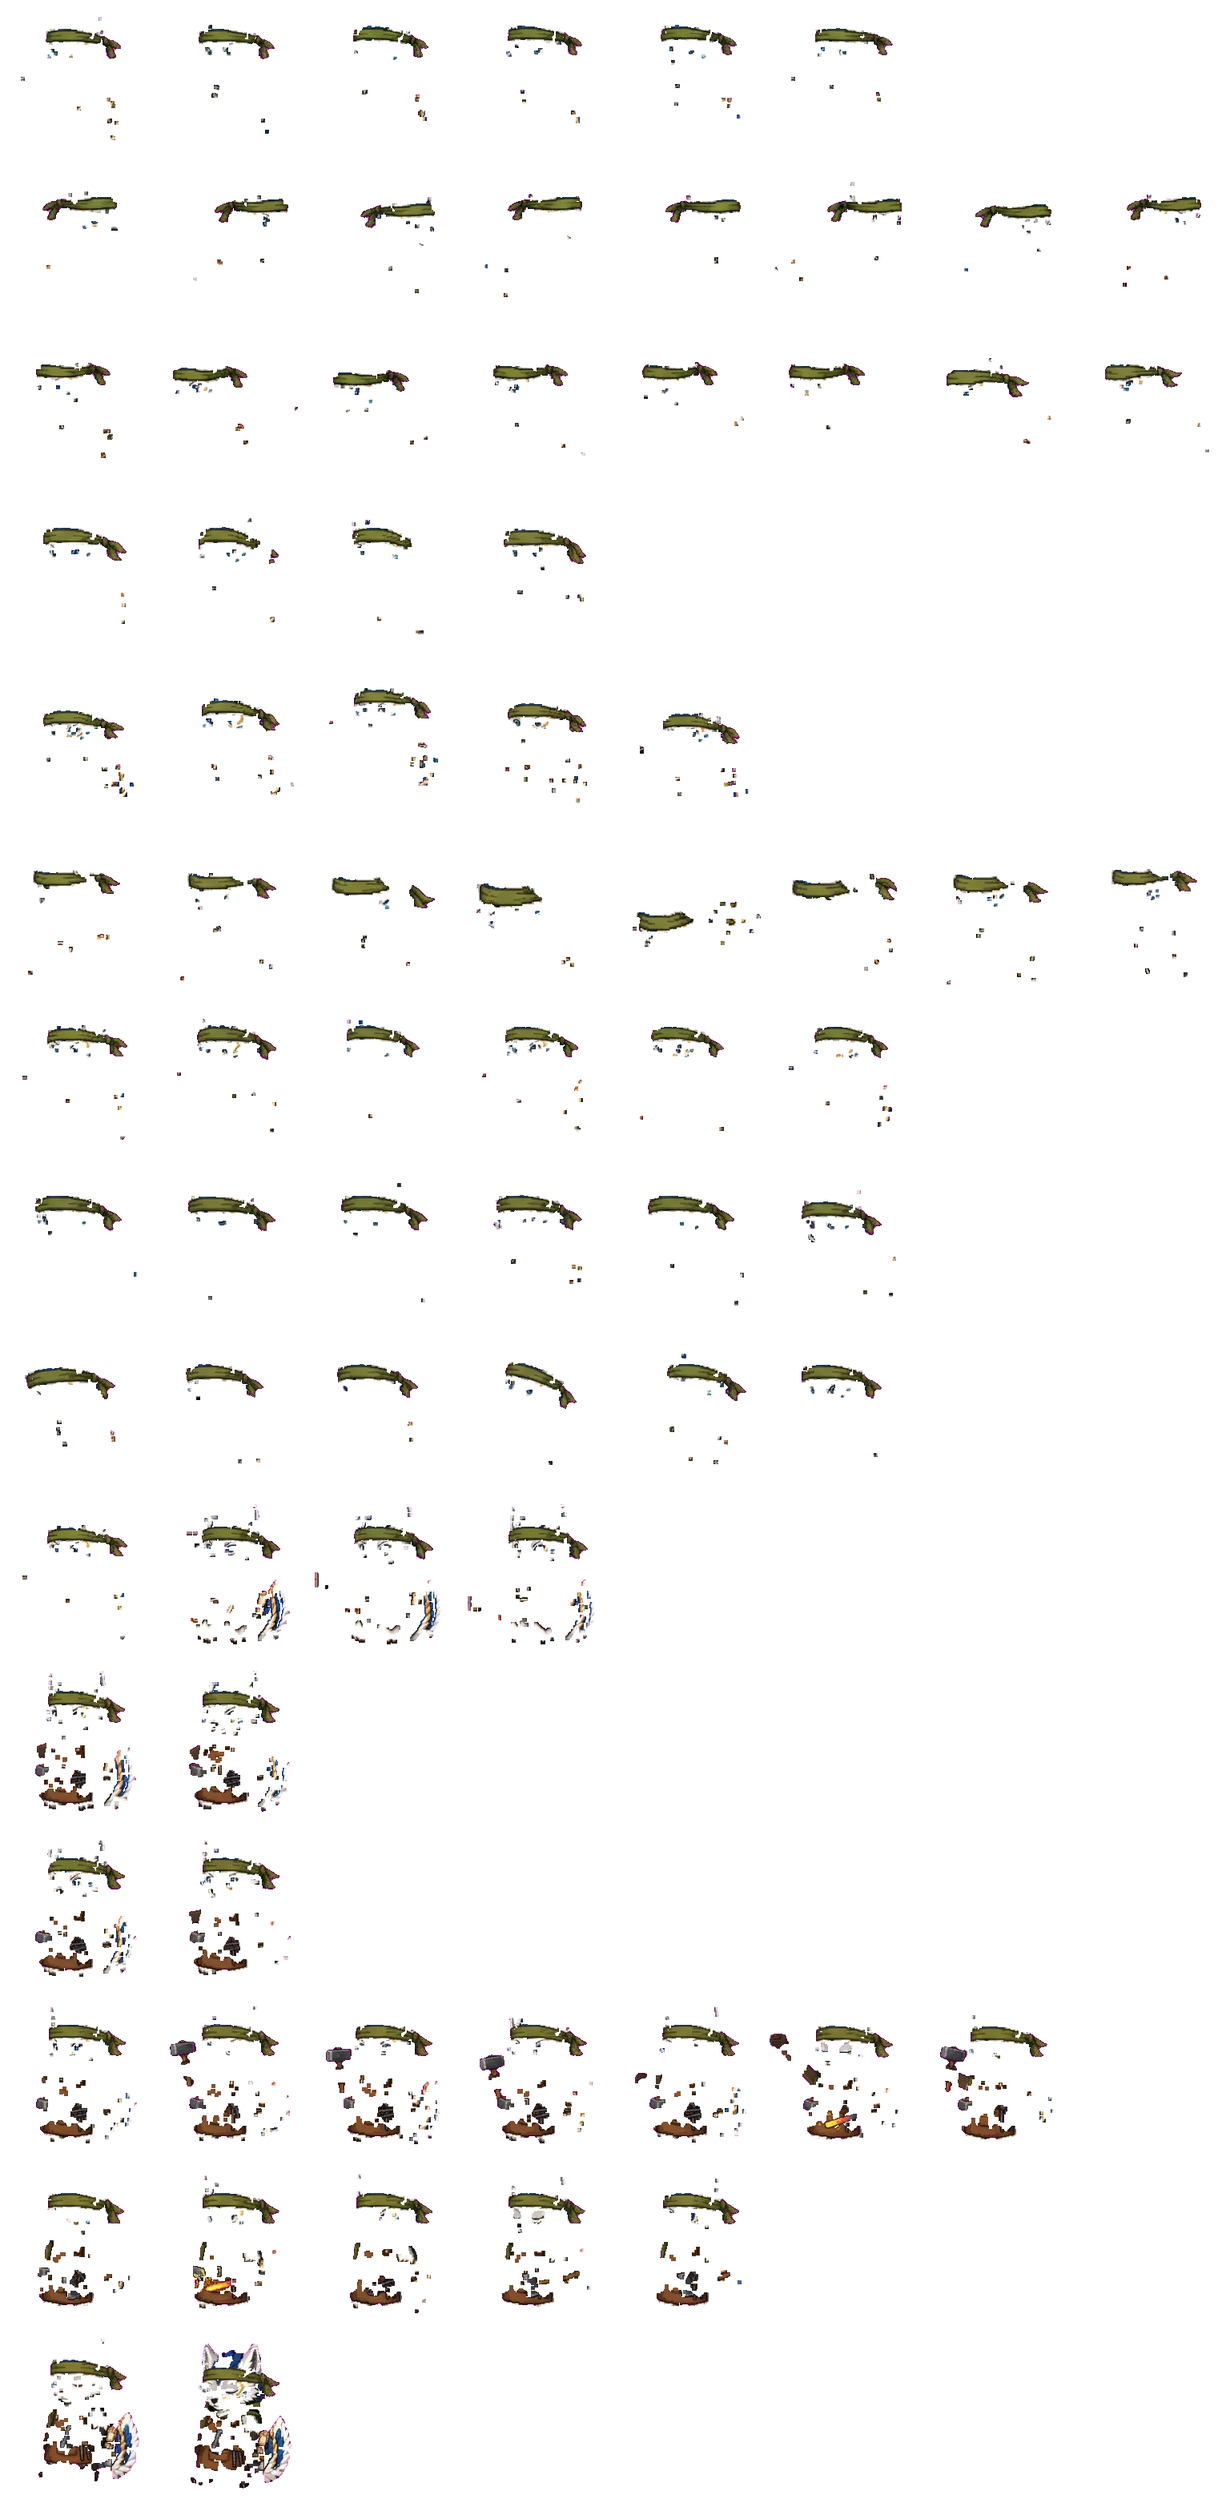
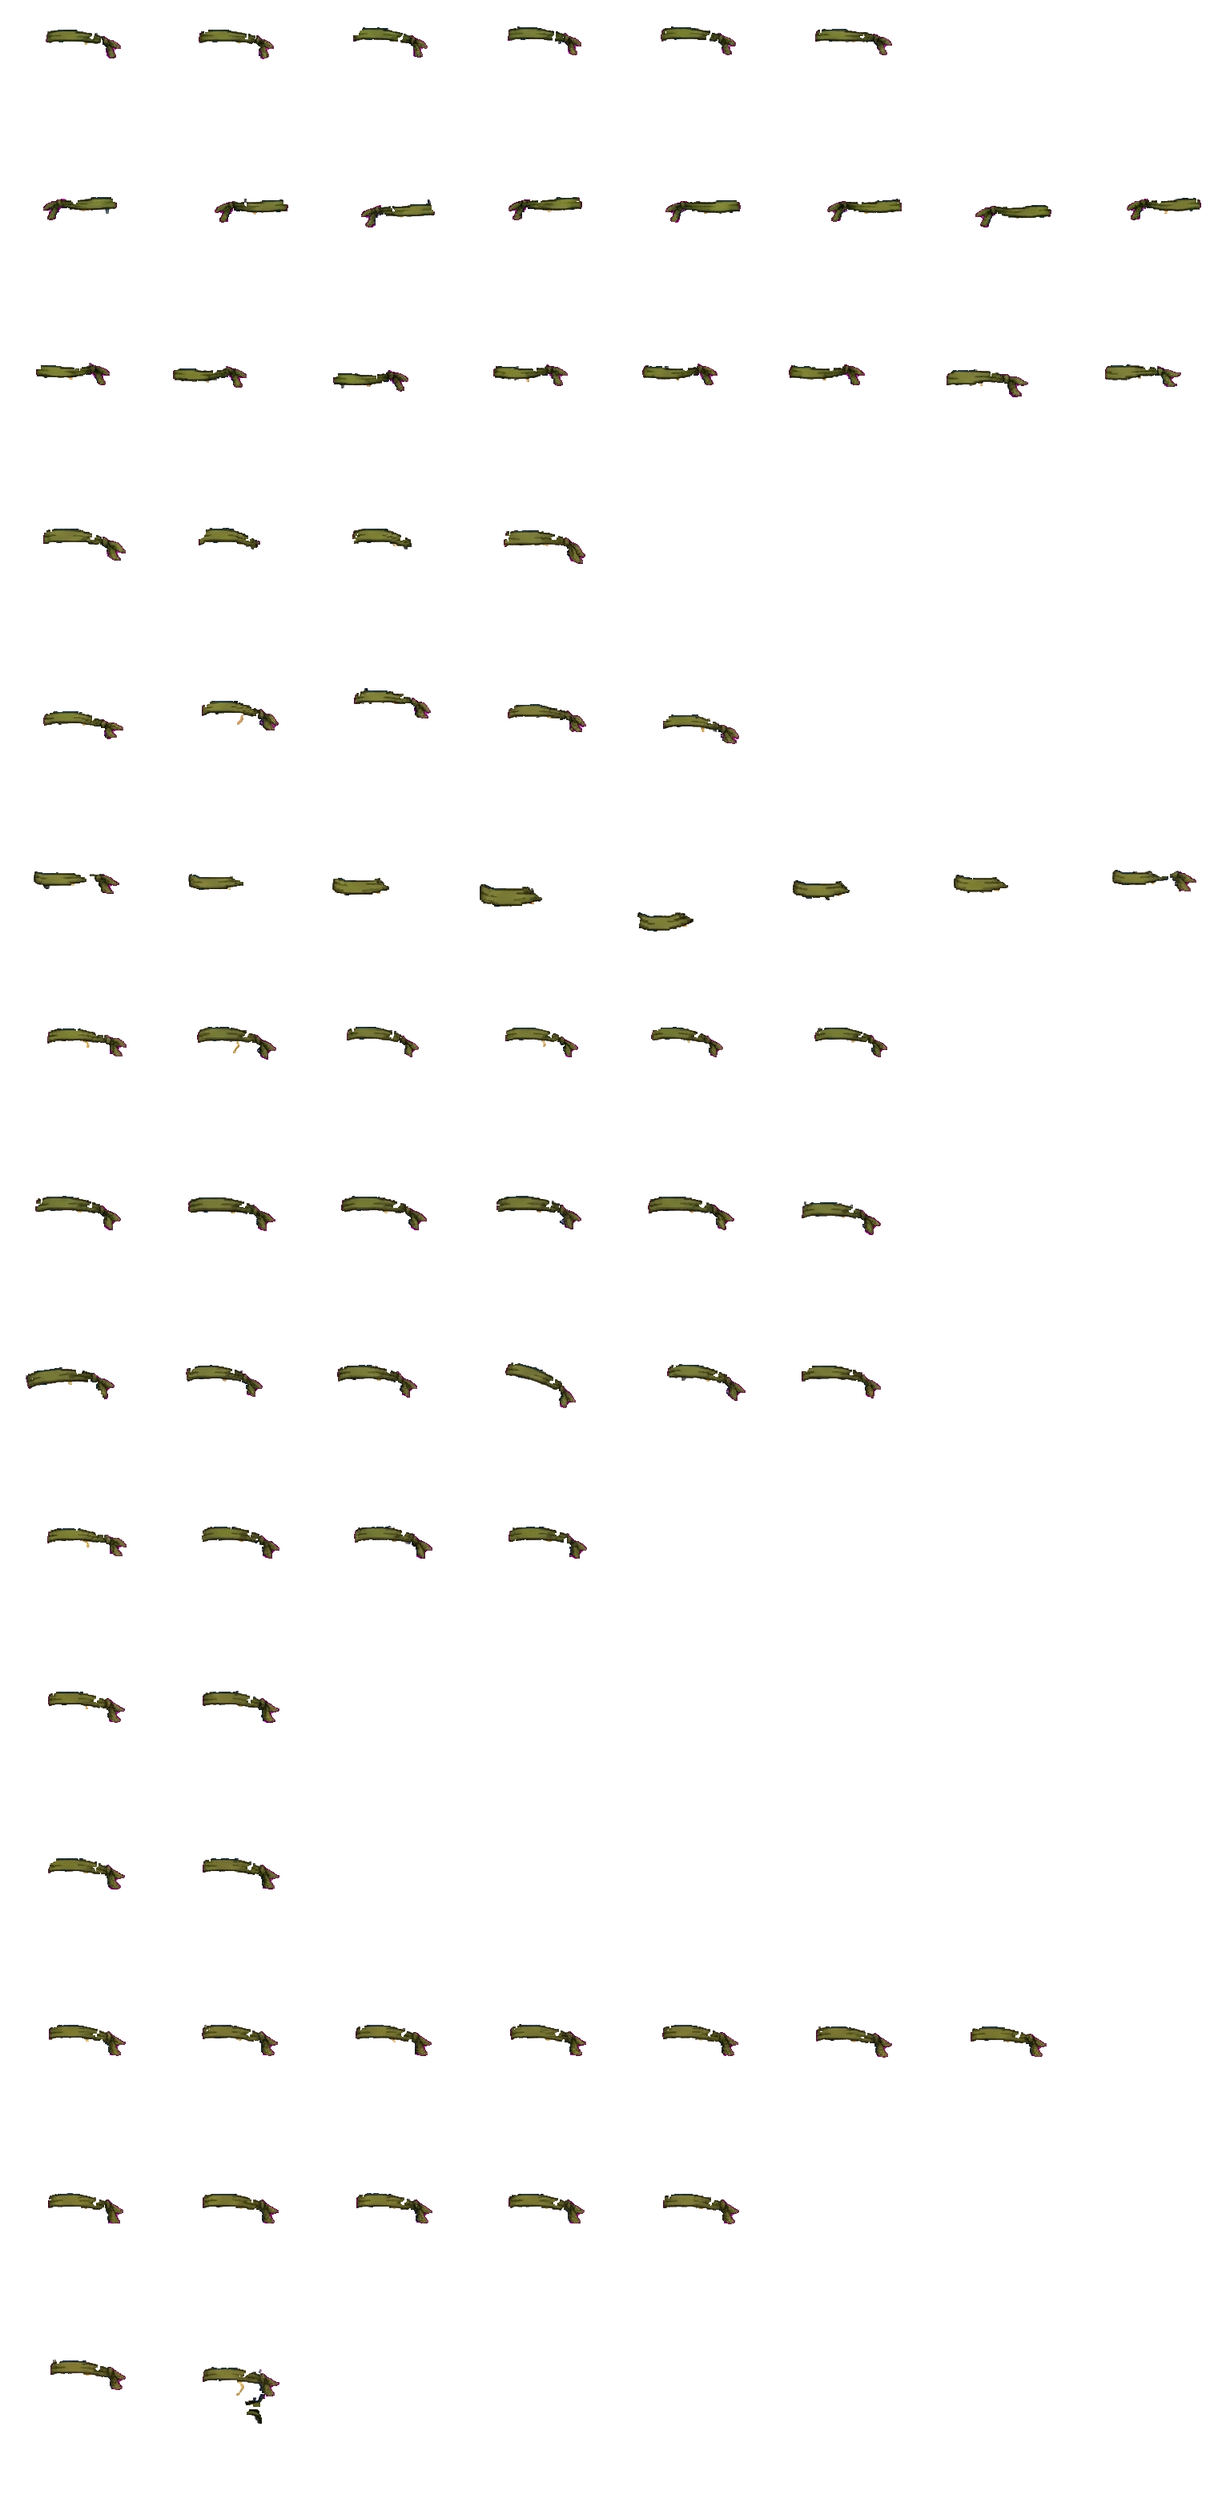
Accessoires du pet : le calque réduit à l'accessoire, plus de pet en double
- quand l'IA redessine une pose au lieu de l'habiller, tout ce qui diffère passait dans le
  calque : au sommeil, une seconde tête et une seconde queue ; au balai, un second manche ; aux
  gestes de forge, un tablier à outils, des marteaux et une lame dans le calque du bandeau
- l'import épure chaque calque : ni fourrure (blanc, gris clair, bleu), ni miettes ; la seule
  pièce de la tête au-dessus du menton (lunettes, bandeau), le seul cuir brun du corps (tablier) ;
  il signale les poses dont plus de la moitié est ôtée
- chatgpt.py --epurer repasse les calques déjà faits, et les trois calques en sont repassés :
  elle ne fait qu'ôter, et la repasser ne change plus rien
- le film du banc (planche.rs) prend ACCESSOIRE=lunettes|tablier|bandeau

diff --git a/tools/pet/chatgpt.py b/tools/pet/chatgpt.py
@@ -10,14 +10,17 @@ python tools/pet/chatgpt.py --tenue             → tools/pet/chatgpt/tenue-1.pn
 python tools/pet/chatgpt.py --tenue <accessoire> <n> <son image.png>
                                                 → rendu/pet/<accessoire>.webp complété des poses
                                                   de tenue-<n>, et apercu-<accessoire>-<n>.png
+python tools/pet/chatgpt.py --epurer            → les calques déjà faits repassés à l'épuration, et
+                                                  tools/pet/chatgpt/epure-<accessoire>.png
 
 Les gestes : ses poses sont prises dans l'ordre du guide (de gauche à droite, rangée par rangée),
 chacune à la taille et à la place de la mienne : même hauteur, les pattes au même endroit. Ce
 qu'il dessine autour (le fond, un damier « transparent ») est retiré d'après les couleurs du bord.
 
 Les accessoires : son image est ramenée à la taille de la planche envoyée, chaque pose recalée sur
-la mienne, et n'en est gardé que ce qui a changé (l'accessoire) : un calque que l'appli pose sur
-le pet. Le dessin d'origine reste intact.
+la mienne, et n'en est gardé que ce qui a changé : un calque que l'appli pose sur le pet. Le dessin
+d'origine reste intact. S'il a redessiné une pose (la tête ailleurs, une gourde ajoutée), ce qui a
+changé n'est pas que l'accessoire : le calque est épuré (epurer) jusqu'à ne garder que lui.
 """
 import os
 import sys
@@ -125,6 +128,91 @@ def calque(mien, sien):
 SEUIL = 90
 
 
+def taches(masque):
+    """Les taches d'un masque (4-voisins) : une liste de masques."""
+    vu = np.zeros_like(masque)
+    h, w = masque.shape
+    out = []
+    for y0, x0 in zip(*np.nonzero(masque)):
+        if vu[y0, x0]:
+            continue
+        t, pile = np.zeros_like(masque), [(y0, x0)]
+        vu[y0, x0] = True
+        while pile:
+            y, x = pile.pop()
+            t[y, x] = True
+            for j, i in ((y - 1, x), (y + 1, x), (y, x - 1), (y, x + 1)):
+                if 0 <= j < h and 0 <= i < w and masque[j, i] and not vu[j, i]:
+                    vu[j, i] = True
+                    pile.append((j, i))
+        out.append(t)
+    return out
+
+
+def fourrure(px):
+    """Les couleurs du pet qu'aucun accessoire ne porte : le blanc et le gris clair de la
+    fourrure, le bleu de la crête et de la queue."""
+    r, g, b = (px[..., k] / 255 for k in range(3))
+    mx, mn = np.maximum(np.maximum(r, g), b), np.minimum(np.minimum(r, g), b)
+    sat = (mx - mn) / np.maximum(mx, 1e-6)
+    return ((mx > 0.62) & (sat < 0.22)) | ((b > r + 0.15) & (b > g + 0.05) & (sat > 0.35))
+
+
+def saturation(px):
+    rgb = px[..., :3].astype(float)
+    return ((rgb.max(-1) - rgb.min(-1)) / np.maximum(rgb.max(-1), 1)).mean()
+
+
+# sa tête, jusqu'au menton : ces pixels sous le haut du personnage, couché comme debout. Sur toutes
+# les poses, les lunettes et le bandeau ont leur milieu à 73 pixels au plus, et le cuir du tablier
+# (sa bavette comprise) à 84 au moins
+TETE = 80
+
+
+def cuir(rgb):
+    """Le cuir brun moyen du tablier (cf. CHATGPT.md), à sa teinte : sur toutes les poses, le vert
+    à 0,6 du rouge et le bleu à 0,3 ; le bois sombre, le crème, le doré s'en écartent."""
+    r, g, b = (float(v) for v in rgb)
+    return 80 <= r <= 190 and 0.5 <= g / r <= 0.68 and b / r < 0.42
+
+
+def epurer(acc, mien, c):
+    """Le calque `c` réduit à l'accessoire. Quand l'IA redessine une pose au lieu de l'habiller
+    (une tête redressée, la queue ailleurs, une gourde ajoutée), tout ce qui diffère passe dans le
+    calque, et le pet se montre en double. On n'en garde que l'accessoire : ni fourrure, ni
+    miettes, et la seule pièce de la tête (lunettes, bandeau) ou celles du corps (tablier)."""
+    c = np.asarray(c).copy()
+    plein = (c[..., 3] > 0) & ~fourrure(c)
+    m = Image.fromarray((plein * 255).astype(np.uint8)).filter(ImageFilter.MinFilter(3)).filter(ImageFilter.MaxFilter(3))
+    plein &= np.asarray(m) > 0
+    for t in taches(plein):
+        if t.sum() < 40:
+            plein &= ~t
+    ys = np.nonzero(np.asarray(mien)[..., 3] > 128)[0]
+    if not len(ys):
+        return Image.fromarray(np.zeros_like(c), 'RGBA')
+    tete = ys.min() + TETE
+    rangee = np.arange(c.shape[0])[:, None].repeat(c.shape[1], 1)
+    # les morceaux voisins (une lanière coupée par la fourrure) font un même groupe
+    proche = np.asarray(Image.fromarray((plein * 255).astype(np.uint8)).filter(ImageFilter.MaxFilter(5))) > 0
+    groupes = [g & plein for g in taches(proche) if (g & plein).any()]
+    garde = np.zeros_like(plein)
+    if acc == 'tablier':
+        for g in groupes:
+            # le cuir sur le corps ; pas un manche de balai redessiné, la rayure d'une queue, une gourde
+            if rangee[g].mean() >= tete and g.sum() >= 150 and cuir(np.median(c[g][:, :3], 0)):
+                garde |= g
+    else:
+        haut = [g for g in groupes if rangee[g].mean() < tete]
+        if haut:
+            # dans la pièce : ni morceau gris (une pointe d'oreille), ni morceau sous la tête
+            for t in taches(max(haut, key=lambda g: g.sum())):
+                if rangee[t].mean() < tete and saturation(c[t]) >= 0.15:
+                    garde |= t
+    c[~garde] = 0
+    return Image.fromarray(c, 'RGBA')
+
+
 def importer_tenue(acc, n, chemin):
     if acc not in ACCESSOIRES:
         sys.exit(f'accessoire inconnu : {acc} ({", ".join(ACCESSOIRES)})')
@@ -145,19 +233,20 @@ def importer_tenue(acc, n, chemin):
     if feuille is None or feuille.size != (8 * CASE[0], lignes * CASE[1]):
         feuille = Image.new('RGBA', (8 * CASE[0], lignes * CASE[1]), (0, 0, 0, 0))
     ap = Image.new('RGBA', (len(ps) * 3 * 100, 110), (40, 36, 40, 255))
-    vides = []
+    vides, redessinees = [], []
     for k, (p, r, i) in enumerate(ps):
         mien = franc(case_de(p, r, i))
         x0, y0 = coin(k)
         d, dx, dy = recaler(mien, sien, x0, y0)
         case = sien.crop((x0 + dx, y0 + dy, x0 + dx + CASE[0], y0 + dy + CASE[1]))
-        c = calque(mien, case)
+        brut_ = calque(mien, case)
+        c = epurer(acc, mien, brut_)
+        avant, apres = (int(np.count_nonzero(np.asarray(x)[..., 3])) for x in (brut_, c))
         if c.getbbox() is None:
             vides.append(k + 1)
-        rangee = r if p == 0 else len(RANGEES_PET) + r
-        # la case d'attente du pet est aussi la case 0 de la forge
-        places = [(i, rangee)] + ([(0, len(RANGEES_PET))] if (p, r, i) == (0, 6, 0) else [])
-        for cx, cy in places:
+        elif avant > 2 * apres:
+            redessinees.append(k + 1)
+        for cx, cy in places(p, r, i):
             feuille.paste((0, 0, 0, 0), (cx * CASE[0], cy * CASE[1], (cx + 1) * CASE[0], (cy + 1) * CASE[1]))
             feuille.paste(c, (cx * CASE[0], cy * CASE[1]))
         habille = mien.copy()
@@ -165,13 +254,57 @@ def importer_tenue(acc, n, chemin):
         for j, im in enumerate((mien, case, habille)):
             ap.alpha_composite(im.resize((96, 104)), ((k * 3 + j) * 100, 3))
         print(f'  pose {k + 1:2} (planche {p}, rangée {r}, case {i}) : recalée de ({dx:+}, {dy:+}), écart {d:.0f} ; '
-              f'calque de {int(np.count_nonzero(np.asarray(c)[..., 3]))} pixels')
+              f'calque de {avant} pixels, {apres} gardés')
     feuille.save(sortie, lossless=True, quality=100, method=6)
     os.makedirs(SORTIE, exist_ok=True)
     ap.save(os.path.join(SORTIE, f'apercu-{acc}-{n}.png'))
     print(f'rendu/pet/{acc}.webp complété ; apercu-{acc}-{n}.png : la mienne, la sienne, la mienne habillée')
     if vides:
         print(f'  sans accessoire trouvé : poses {vides}')
+    if redessinees:
+        print(f'  plus de la moitié du calque ôtée (il a redessiné la pose) : poses {redessinees}, à regarder dans l\'aperçu')
+
+
+def places(p, r, i):
+    """Où la pose va dans un calque : sa rangée, et la case d'attente du pet est aussi la case 0
+    de la forge."""
+    rangee = r if p == 0 else len(RANGEES_PET) + r
+    return [(i, rangee)] + ([(0, len(RANGEES_PET))] if (p, r, i) == (0, 6, 0) else [])
+
+
+def epurer_calques():
+    """Les calques déjà faits, épurés comme à l'import ; et tools/pet/chatgpt/epure-<accessoire>.png,
+    chaque pose habillée avant (à gauche) et après."""
+    os.makedirs(SORTIE, exist_ok=True)
+    ps = poses_tenue()
+    for acc in ACCESSOIRES:
+        sortie = os.path.join(PET, f'{acc}.webp')
+        feuille = Image.open(sortie).convert('RGBA')
+        if feuille.size != (8 * CASE[0], (len(RANGEES_PET) + len(gestes.RANGEES)) * CASE[1]):
+            print(f'{acc} : pas encore dessiné')
+            continue
+        ap = Image.new('RGBA', (10 * 200, (len(ps) + 9) // 10 * 110), (40, 36, 40, 255))
+        ote = []
+        for k, (p, r, i) in enumerate(ps):
+            mien = franc(case_de(p, r, i))
+            for n, (cx, cy) in enumerate(places(p, r, i)):
+                boite = (cx * CASE[0], cy * CASE[1], (cx + 1) * CASE[0], (cy + 1) * CASE[1])
+                c = feuille.crop(boite)
+                e = epurer(acc, mien, c)
+                avant, apres = (int(np.count_nonzero(np.asarray(x)[..., 3])) for x in (c, e))
+                if avant > 2 * apres:
+                    ote.append(k + 1)
+                feuille.paste((0, 0, 0, 0), boite)
+                feuille.paste(e, boite)
+                if n == 0:
+                    for j, x in enumerate((c, e)):
+                        habille = mien.copy()
+                        habille.alpha_composite(x)
+                        ap.alpha_composite(habille.resize((96, 104)), ((k % 10) * 200 + j * 100, (k // 10) * 110 + 3))
+        feuille.save(sortie, lossless=True, quality=100, method=6)
+        ap.save(os.path.join(SORTIE, f'epure-{acc}.png'))
+        print(f'rendu/pet/{acc}.webp épuré ; epure-{acc}.png : avant, après'
+              + (f' ; plus de la moitié ôtée : poses {sorted(set(ote))}' if ote else ''))
 
 
 def franc(im):
@@ -368,7 +501,9 @@ def importer(chemin):
 
 
 if __name__ == '__main__':
-    if '--tenue' in sys.argv:
+    if '--epurer' in sys.argv:
+        epurer_calques()
+    elif '--tenue' in sys.argv:
         args = [a for a in sys.argv[1:] if a != '--tenue']
         guide_tenue() if not args else importer_tenue(args[0], int(args[1]), args[2])
     elif '--guide' in sys.argv:

diff --git a/rendu/src/forge/planche.rs b/rendu/src/forge/planche.rs
@@ -262,14 +262,16 @@ mod film {
     /// Des images qui se suivent, comme l'appli les peint (le pet, la gerbe), côte à côte :
     /// FILM=<sortie.png> cargo test --release film -- --ignored
     /// MOMENT : frappe (par défaut), soufflet, trempe, envoi, balai, sommeil ; DEBUT : le tic de
-    /// la première image (16 par défaut) ; IMAGES : combien (12)
+    /// la première image (16 par défaut) ; IMAGES : combien (12) ; ACCESSOIRE : lunettes, tablier,
+    /// bandeau (aucun par défaut)
     #[test]
     #[ignore]
     fn film() {
         let (cw, ch, cols) = (9i32, 19i32, 144i32);
         let (w, h) = (cols * cw, 16 * ch);
         let var = |n: &str, d: i32| std::env::var(n).ok().and_then(|v| v.parse().ok()).unwrap_or(d);
-        let mut monde = Monde { clock: 1, ..Monde::default() };
+        let accessory = std::env::var("ACCESSOIRE").ok().and_then(|s| Accessoire::de(&s)).unwrap_or(Accessoire::Aucun);
+        let mut monde = Monde { clock: 1, accessory, ..Monde::default() };
         let activite = match std::env::var("MOMENT").unwrap_or_default().as_str() {
             "soufflet" => {
                 monde.flavor = Saveur::Build;

diff --git a/tools/pet/CHATGPT.md b/tools/pet/CHATGPT.md
@@ -169,11 +169,26 @@ Le script :
   la mise en page ;
 - la ramène à la taille de la planche, recale chaque pose sur la mienne (à 12 pixels près), et ne
   garde que ce qui a changé, en taches de plus de deux pixels ;
+- épure ce calque jusqu'à l'accessoire seul. Quand l'IA redessine une pose au lieu de l'habiller
+  (la tête redressée, la queue ailleurs, une gourde ou un manche de balai ajoutés), tout ce qui
+  diffère passe dans le calque, et l'appli montrerait le pet en double. Sont ôtés : la fourrure
+  (blanc, gris clair, bleu de la crête et de la queue), les miettes, et tout ce qui n'est pas la
+  pièce de la tête (lunettes, bandeau, au-dessus du menton) ou le cuir brun du corps (tablier) ;
 - complète `rendu/pet/<accessoire>.webp`, planche par planche (les cases des autres planches sont
   gardées), et écrit `tools/pet/chatgpt/apercu-<accessoire>-<n>.png`. Chaque pose y apparaît
   trois fois : la mienne, la sienne, puis la mienne avec le calque ;
-- dit, pour chaque pose, de combien il l'a recalée et combien de pixels compte son calque, et
-  liste les poses où il n'a rien trouvé.
+- dit, pour chaque pose, de combien il l'a recalée, combien de pixels compte son calque et
+  combien en sont gardés ; liste les poses où il n'a rien trouvé, et celles dont plus de la moitié
+  a été ôtée (il les a redessinées : les regarder dans l'aperçu).
+
+Les calques déjà faits se repassent à l'épuration, sans rien redemander à l'IA :
+
+```
+python tools/pet/chatgpt.py --epurer
+```
+
+Elle ne fait qu'ôter, et la repasser ne change plus rien. `tools/pet/chatgpt/epure-<accessoire>.png`
+montre chaque pose habillée avant (à gauche) et après.
 
 Une planche ratée se refait seule : relancer la commande avec une meilleure image remplace ses
 poses. Pour retirer un accessoire : `git checkout rendu/pet/<accessoire>.webp`, qui remet le
@@ -209,9 +224,12 @@ changé, puis remplace l'appli qui tourne.
   vitrine.
 - **Gestes : la taille des poses varie.** Le script prend une seule échelle, la médiane : une pose
   dessinée plus grande ou plus petite le restera.
-- **Accessoires : il a retouché autre chose** (les yeux, une couleur, un contour). Ça passe dans le
-  calque et se voit dans l'aperçu, en troisième image. Refaire la planche en insistant sur
-  « change nothing else ».
+- **Accessoires : il a retouché autre chose** (les yeux, une couleur, un contour). L'épuration ôte
+  la fourrure et ce qui n'est pas l'accessoire ; ce qui resterait se voit dans l'aperçu, en
+  troisième image. Refaire la planche en insistant sur « change nothing else ».
+- **Accessoires : l'accessoire est ôté avec le reste.** Un tablier d'une autre couleur que le cuir
+  brun moyen du prompt, ou un accessoire de tête plus bas que le menton, ne passe pas l'épuration
+  (`cuir` et `TETE` dans `chatgpt.py`) : les ajuster, puis relancer `--epurer`.
 - **Accessoires : il a déplacé ou redimensionné les poses.** Le recalage rattrape 12 pixels.
   Au-delà, le calque prend des morceaux de corps décalés : refaire la planche.
 - **Accessoires : un calque vide** (« sans accessoire trouvé ») : l'accessoire est caché dans
